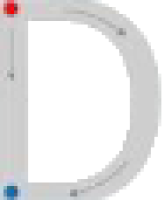
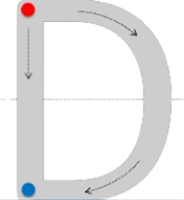
att de imagens da atividade Alfabeto.

diff --git a/lib/ui/pages/localize_page.dart b/lib/ui/pages/localize_page.dart
@@ -8,7 +8,8 @@ import 'package:projeto_crianca/ui/widgets/Buttons/button_component.dart';
 import 'package:projeto_crianca/ui/widgets/Buttons/icon_button_component.dart';
 import 'package:projeto_crianca/ui/widgets/Inputs/text_input_component.dart';
 import 'package:projeto_crianca/ui/theme/theme_extensions.dart';
-import 'package:modal_bottom_sheet/modal_bottom_sheet.dart' as ModalBottomSheet;
+import 'package:modal_bottom_sheet/modal_bottom_sheet.dart'
+    as modal_bottom_sheet;
 
 class _CustomAppBar extends StatelessWidget {
   final LocalizePageController _controller = Get.find<LocalizePageController>();
@@ -71,7 +72,7 @@ class _CustomAppBar extends StatelessWidget {
                           onTap: () {
                             _controller.setProfissional =
                                 _controller.getResults[index];
-                            ModalBottomSheet.showMaterialModalBottomSheet(
+                            modal_bottom_sheet.showMaterialModalBottomSheet(
                               expand: false,
                               context: context,
                               builder: (BuildContext context) =>
@@ -104,7 +105,7 @@ class CustomModalBottomSheet extends StatelessWidget {
     final ThemeColors colors = Theme.of(context).extension<ThemeColors>()!;
     final ThemeData theme = Theme.of(context);
     final ScrollController? modalScrollController =
-        ModalBottomSheet.ModalScrollController.of(context);
+        modal_bottom_sheet.ModalScrollController.of(context);
 
     if (controller.getProfessional != null) {
       return Obx(
@@ -249,7 +250,7 @@ class LocalizePage extends GetView<LocalizePageController> {
   Widget build(BuildContext context) {
     final ThemeMetrics metrics = Theme.of(context).extension<ThemeMetrics>()!;
     controller.setShowPinModal =
-        () => ModalBottomSheet.showMaterialModalBottomSheet(
+        () => modal_bottom_sheet.showMaterialModalBottomSheet(
               expand: false,
               context: context,
               builder: (BuildContext context) => CustomModalBottomSheet(),

diff --git a/lib/ui/pages/activities/alphabet/alphabet_activity_page.dart b/lib/ui/pages/activities/alphabet/alphabet_activity_page.dart
@@ -23,34 +23,34 @@ final letters = {
     points: {
       1: [
         PointModel(
-          positionTop: Vector2(88, 478),
-          positionBottom: Vector2(112, 502),
+          positionTop: Vector2(106, 478),
+          positionBottom: Vector2(130, 502),
         ),
         PointModel(
-          positionTop: Vector2(126, 388),
-          positionBottom: Vector2(150, 412),
+          positionTop: Vector2(144, 388),
+          positionBottom: Vector2(168, 412),
         ),
         PointModel(
-          positionTop: Vector2(168, 296),
-          positionBottom: Vector2(192, 320),
+          positionTop: Vector2(186, 296),
+          positionBottom: Vector2(210, 320),
         ),
         PointModel(
-          positionTop: Vector2(210, 388),
-          positionBottom: Vector2(234, 412),
+          positionTop: Vector2(228, 388),
+          positionBottom: Vector2(252, 412),
         ),
         PointModel(
-          positionTop: Vector2(248, 478),
-          positionBottom: Vector2(272, 502),
+          positionTop: Vector2(266, 478),
+          positionBottom: Vector2(290, 502),
         ),
       ],
       2: [
         PointModel(
-          positionTop: Vector2(126, 388),
-          positionBottom: Vector2(150, 412),
+          positionTop: Vector2(144, 388),
+          positionBottom: Vector2(168, 412),
         ),
         PointModel(
-          positionTop: Vector2(210, 388),
-          positionBottom: Vector2(234, 412),
+          positionTop: Vector2(228, 388),
+          positionBottom: Vector2(252, 412),
         ),
       ]
     },
@@ -108,7 +108,6 @@ class _AlphabetActivityPageState extends State<AlphabetActivityPage> {
 
   void nextLetterCallback() {
     if (counter == letters.entries.length - 1) {
-      print("Fim de Jogo");
       counter = 0;
       setState(
         () => currentLetter = letters.entries.elementAt(counter).value,

diff --git a/lib/ui/pages/games/memory/memory_game_engine_container.dart b/lib/ui/pages/games/memory/memory_game_engine_container.dart
@@ -1,10 +1,5 @@
 import 'package:flame/components.dart';
-import 'package:get/get.dart';
-import 'package:projeto_crianca/ui/pages/games/components/bottom_container_component.dart';
-import 'package:projeto_crianca/ui/pages/games/components/dragable_block_component.dart';
-import 'package:projeto_crianca/ui/pages/games/components/hint_container_component.dart';
 import 'package:projeto_crianca/ui/pages/games/components/top_container_component.dart';
-import 'package:projeto_crianca/ui/pages/games/components/fixed_block_component.dart';
 import 'package:projeto_crianca/ui/pages/games/memory/components/card_game_component.dart';
 
 class MemoryGameEngineContainer extends RectangleComponent {

diff --git a/lib/ui/pages/activities/alphabet/alphabet_activity_engine_container.dart b/lib/ui/pages/activities/alphabet/alphabet_activity_engine_container.dart
@@ -1,6 +1,3 @@
-import 'dart:collection';
-import 'dart:math';
-
 import 'package:flame/collisions.dart';
 import 'package:flame/components.dart';
 import 'package:flutter/material.dart';
@@ -94,7 +91,7 @@ class AlphabetActivityEngineContainer extends RectangleComponent
           ..width = 24
           ..height = 24
           ..size = Vector2(24, 24)
-          ..position = Vector2(0, 0)
+          ..position = el.positionTop
           ..debugMode = true,
     ]);
   }

diff --git a/lib/routes/app_pages.dart b/lib/routes/app_pages.dart
@@ -110,7 +110,7 @@ abstract class AppPages {
     ),
     GetPage(
       name: AppRoutes.alphabetActivity,
-      page: () => AlphabetActivityPage(),
+      page: () => const AlphabetActivityPage(),
     ),
   ];
 }

diff --git a/lib/ui/pages/activities/components/image_component.dart b/lib/ui/pages/activities/components/image_component.dart
@@ -1,5 +1,4 @@
 import 'package:flame/collisions.dart';
-import 'package:flame/experimental.dart';
 import 'package:flame/components.dart';
 import 'package:flame/flame.dart';
 

diff --git a/lib/ui/pages/games/memory/components/card_game_component.dart b/lib/ui/pages/games/memory/components/card_game_component.dart
@@ -1,4 +1,3 @@
-import 'package:flame/collisions.dart';
 import 'package:flame/components.dart';
 import 'package:flame/experimental.dart';
 import 'package:flame/flame.dart';
